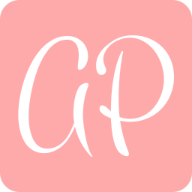
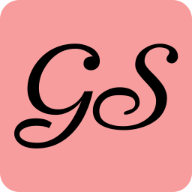
gurusai card final

Changed region(s): [[0.0625, 0.1562, 0.9375, 0.8125]]

diff --git a/index.html b/index.html
@@ -8,7 +8,7 @@
   <head>
     <meta charset="utf-8" />
     <meta http-equiv="X-UA-Compatible" content="IE=edge" />
-    <title>Anusha Subhedarmath</title>
+    <title>Karnam</title>
     <meta name="viewport" content="width=device-width, initial-scale=1" />
     <meta name="description" content="Anusha Invitation " />
     
@@ -95,8 +95,8 @@
                   <div class="col-md-10 col-md-offset-1">
                     <div class="animate-box">
                       <h1>The Wedding</h1>
-                      <h2>Anusha &amp; Pavan</h2>
-                      <p><span>18.12.2022</span></p>
+                      <h2>Gurusai &amp; Sindhu</h2>
+                      <p><span>26.01.2023</span></p>
 			    
 			    <p><span> <a href="#fh5co-logo" style="color: #FFF;"
                       >View More</a
@@ -115,7 +115,7 @@
 <!--               <a href="#" class="js-fh5co-nav-toggle fh5co-nav-toggle dark"
                 ><i></i
               ></a> -->
-              <h1 id="fh5co-logo"><a href="#fh5co-page">A&P</a></h1>
+              <h1 id="fh5co-logo"><a href="#fh5co-page">G<span style="font-size:20px"> & </span>S</a></h1>
               <!-- START #fh5co-menu-wrap -->
               <nav id="fh5co-menu-wrap" role="navigation">
                 <ul class="sf-menu" id="fh5co-primary-menu">
@@ -127,7 +127,7 @@
                   </li>
                   <li><a href="#when">When &amp; Where</a></li>
                
-                  <li><a href="#fh5co-gallery">Gallery</a></li>
+                 
                   <li><a href="#locate">Map</a></li>
                   
                 </ul>
@@ -144,22 +144,23 @@
               <div class="col-md-6 col-md-offset-3 text-center">
                 <div class="col-md-5 col-sm-5 col-xs-5 nopadding">
                   <img
-                    src="images/anu_dp.png"
-                    class="img-responsive"
-                    alt="Free HTML5 Bootstrap Template by FreeHTML5.co"
-                  />
-                  <h3>Anusha</h3>
+                  src="images/guru_dp.png"
+                  class="img-responsive"
+                  alt="Free HTML5 Bootstrap Template by FreeHTML5.co"
+                />
+                <h3>Gurusai</h3>
                 </div>
                 <div class="col-md-2 col-sm-2 col-xs-2 nopadding">
                   <h2 class="amp-center"><i class="icon-heart"></i></h2>
                 </div>
                 <div class="col-md-5 col-sm-5 col-xs-5 nopadding">
                   <img
-                    src="images/pavan_dp.png"
-                    class="img-responsive"
-                    alt="Free HTML5 Bootstrap Template by FreeHTML5.co"
-                  />
-                  <h3>Pavan</h3>
+                  src="images/sindhu_dp.png"
+                  class="img-responsive"
+                  alt="Free HTML5 Bootstrap Template by FreeHTML5.co"
+                />
+                <h3>Sindhu</h3>
+                
                 </div>
               </div>
             </div>
@@ -168,33 +169,42 @@
                 <div class="col-md-12 text-center heading-section " >
                   <h2>Are Getting Married</h2>
                   
-                    <strong> <span style="font-size: 3rem;">18 Dec 2022</span> <span style="font-size: 3rem;">,12:15</span>PM Onwards </strong></br>
-                    <strong style="font-size: 3.5rem;" >Gavimath, Navalgund</strong>
-                  </p>
+                  <strong style="font-size: 2.2rem;" >At:<br>
+                  <strong style="font-size: 2.2rem;" >Anugraha Community Hall, M.G. Railway Colony, Sharavathi Marg Sevashrama, Bangalore - 23<br>
+                    
+                  </strong>
+                  <div>&nbsp;</div>
+                    <strong style="margin: 20px 0 0 0 ; "> <span style="font-size: 2.2rem;">Muhurtham:<br></span><span style="font-size: 2.5rem;">Thursday: 26 Jan 2023,</span> <span style="font-size: 2.5rem;"> 10:20 AM to 11:20 AM</span> </br><span style="font-size: 2rem;">Lagnam: Meena<br></span></strong>
+                    <div>&nbsp;</div>
+                    <strong> <span style="font-size: 2.2rem;">Reception:<br></span><span style="font-size: 2.5rem;">Thursday: 26 Jan 2023, </span> <span style="font-size: 2.5rem;"> 7:00 PM Onwards</span> </strong></br>
+                    
+                    
+                    </strong>
+                  
                 </div>
               </div>
             </div>
           </div>
         </div>
-        <div id="fh5co-countdown" style="background: linear-gradient(rgba(255,255,255,0.5), rgba(0,0,0,0.5)),url('./images/time_count_head.png');">
+        <div id="fh5co-countdown" style="background: linear-gradient(rgba(0,0,0,0.4), rgba(0,0,0,0.7)),url('./images/time_bg.jpg');background-repeat: no-repeat;background-position: center;background-size: cover;">
           
           <div class="row  ">
             <div class="col-md-8 col-md-offset-2  animate-box ">
               <div class="col-md-12 text-center heading-section" >
           
           
-          <img src="./images/time_count_head.png"  alt="" class="photo-center">
+          <img src="./images/time_count_pic.jpg"  alt="" class="photo-center">
        
         </div>
         </div>
         </div>
           <div class="row">
             <div class="col-md-8 col-md-offset-2 text-center animate-box" >
-              <p class="countdown">
-                <span id="days"></span>
-                <span id="hours"></span>
-                <span id="minutes"></span>
-                <span id="seconds"></span>
+              <p class="countdown"  >
+                <span id="days" ></span>
+                <span id="hours" ></span>
+                <span id="minutes" ></span>
+                <span id="seconds" ></span>
               </p>
             </div>
           </div>
@@ -204,98 +214,18 @@
           <div id="fh5co-page">
             <!-- end:header-top -->
 
-            <div id="fh5co-gallery" class="fh5co-section-gray" style="padding: 7em 0 0 0 ;">
-              <div class="container">
-                <div class="row">
-                  <div
-                    class="col-md-8 col-md-offset-2 text-center heading-section animate-box"
-                  >
-                    <h2>Gallery</h2>
-                  </div>
-                </div>
-              </div>
-
             
-                 
-
-<!-- Carousel container -->
-<div id="my-pics" class="carousel slide" data-ride="carousel" style="margin:auto;">
-
-  <!-- Indicators -->
-  
-  
-  <!-- Content -->
-  <div class="carousel-inner" role="listbox">
-  
-  <!-- Slide 1 -->
-  <div class="item active">
-  <img src="./images/1.png" alt="">
-  </div>
-  
-  <!-- Slide 2 -->
-  <div class="item">
-  <img src="./images/2.png" alt="">
-  </div>
-  
-  <!-- Slide 3 -->
-  <div class="item">
-  <img src="./images/3.png" alt="">
-  </div>
-  <!-- Slide 4 -->
-  <div class="item">
-  <img src="./images/4.png" alt="">
-  </div>
-  <!-- Slide 5 -->
-  <div class="item">
-  <img src="./images/5.png" alt="">
-  </div>
-  <!-- Slide 6 -->
-  <div class="item">
-  <img src="./images/6.png" alt="">
-  </div>
-  <!-- Slide 7 -->
-  <div class="item">
-  <img src="./images/7.png" alt="">
-  </div>
-  <!-- Slide 8 -->
-  <div class="item">
-  <img src="./images/8.png" alt="">
-  </div>
-  <!-- Slide 9 -->
-  <div class="item">
-  <img src="./images/9.png" alt="">
-  </div>
-  <!-- Slide 10 -->
-  <div class="item">
-  <img src="./images/10.png" alt="">
-  </div>
-  
-  </div>
-  
-  <!-- Previous/Next controls -->
-  <a class="left carousel-control" href="#my-pics" role="button" data-slide="prev">
-  <span class="icon-prev" aria-hidden="true"></span>
-  <span class="sr-only">Previous</span>
-  </a>
-  <a class="right carousel-control" href="#my-pics" role="button" data-slide="next">
-  <span class="icon-next" aria-hidden="true"></span>
-  <span class="sr-only">Next</span>
-  </a>
-  
-  </div>
-  
 
 
-
-<div class="container" style="padding: 7em 0;"  id="locate">
+<div class="container"   id="locate" style="padding: 5em 0 0 0;">
                   <div class="row animate-box" >
                     <div class="col-md-8 col-md-offset-2" >
                       <div class="col-md-12 text-center heading-section" >
                         <h2 style="padding: 0 0 1em 0;">Location on Map</h2>
-                        <div class="" style="max-width: 100%; height: 800px; display: flex; justify-content: center;">
+                        <div class="" style="max-width: 100%; height: 500px; display: flex; justify-content: center;">
                           
-                        <iframe src="https://www.google.com/maps/embed?pb=!1m18!1m12!1m3!1d960.9082917298202!2d75.3503391!3d15.557783800000001!2m3!1f0!2f0!3f0!3m2!1i1024!2i768!4f13.1!3m3!1m2!1s0x3bb8e9fb20809f53%3A0xbbf918ee10627f36!2sGavi%20Matha!5e0!3m2!1sen!2sin!4v1670928652004!5m2!1sen!2sin" width="100%" height="100%" style="border:0;" allowfullscreen="" loading="lazy" referrerpolicy="no-referrer-when-downgrade"></iframe>
-                      </div>
+                          <iframe src="https://www.google.com/maps/embed?pb=!1m18!1m12!1m3!1d4668.199501358897!2d77.56568969903971!3d12.980623469429695!2m3!1f0!2f0!3f0!3m2!1i1024!2i768!4f13.1!3m3!1m2!1s0x3bae161c85555555%3A0xc0d93ff162d98960!2sAnugraha%20Community%20Hall!5e0!3m2!1sen!2sin!4v1674056623477!5m2!1sen!2sin" width="600" height="450" style="border:0;" allowfullscreen="" loading="lazy" referrerpolicy="no-referrer-when-downgrade"></iframe>
+                        </div>
                       </div>
                     </div>
                   </div>
@@ -311,7 +241,7 @@
             <div class="container">
               <div class="row">
                 <div class="col-md-12 text-center">
-                  <h2>Anusha &amp; Pavan</h2>
+                  <h2>Gurusai &amp; Sindhu</h2>
                 </div>
                 <div class="col-md-6 col-md-offset-3 text-center">
                   <!-- <p class="fh5co-social-icons">
@@ -322,9 +252,9 @@
                     <a href="#"><i class="icon-youtube"></i></a>
                   </p> -->
                   <p style="margin-bottom: 2px">
-                    Copyright 2022 . All Rights Reserved.
+                    Copyright 2023 . All Rights Reserved.
                   </p>
-                  <p>Website by: vg</p>
+                  <p>Website by: <a style="color:#FFF;" href="http://www.leanbeast.in" target="_blank">Vignesh G</a></p>
                 </div>
               </div>
             </div>

diff --git a/dist/scripts.min.js b/dist/scripts.min.js
@@ -9748,7 +9748,7 @@ if (
         $stickyElement.length &&
           new Waypoint.Sticky({ element: $stickyElement[0], offset: 0 });
       },
-      countDownDate = new Date("Dec 18, 2022 12:15:00").getTime(),
+      countDownDate = new Date("Jan 26, 2023 10:00:00").getTime(),
       x = setInterval(function () {
         var now = new Date().getTime(),
           distance = countDownDate - now,
@@ -9757,7 +9757,7 @@ if (
           minutes = Math.floor((distance % 36e5) / 6e4),
           seconds = Math.floor((distance % 6e4) / 1e3);
         (document.getElementById("days").innerHTML =
-          days + " <small>days</small>"),
+          "0" + days + " <small>days</small>"),
           (document.getElementById("hours").innerHTML =
             hours + " <small>hours</small> "),
           (document.getElementById("minutes").innerHTML =

diff --git a/css/style.css b/css/style.css
@@ -902,6 +902,10 @@ figure {
   position: relative;
 }
 
+.item img {
+  margin: 0 auto;
+}
+
 @media screen and (max-width: 768px) {
   #map {
     height: 200px;
